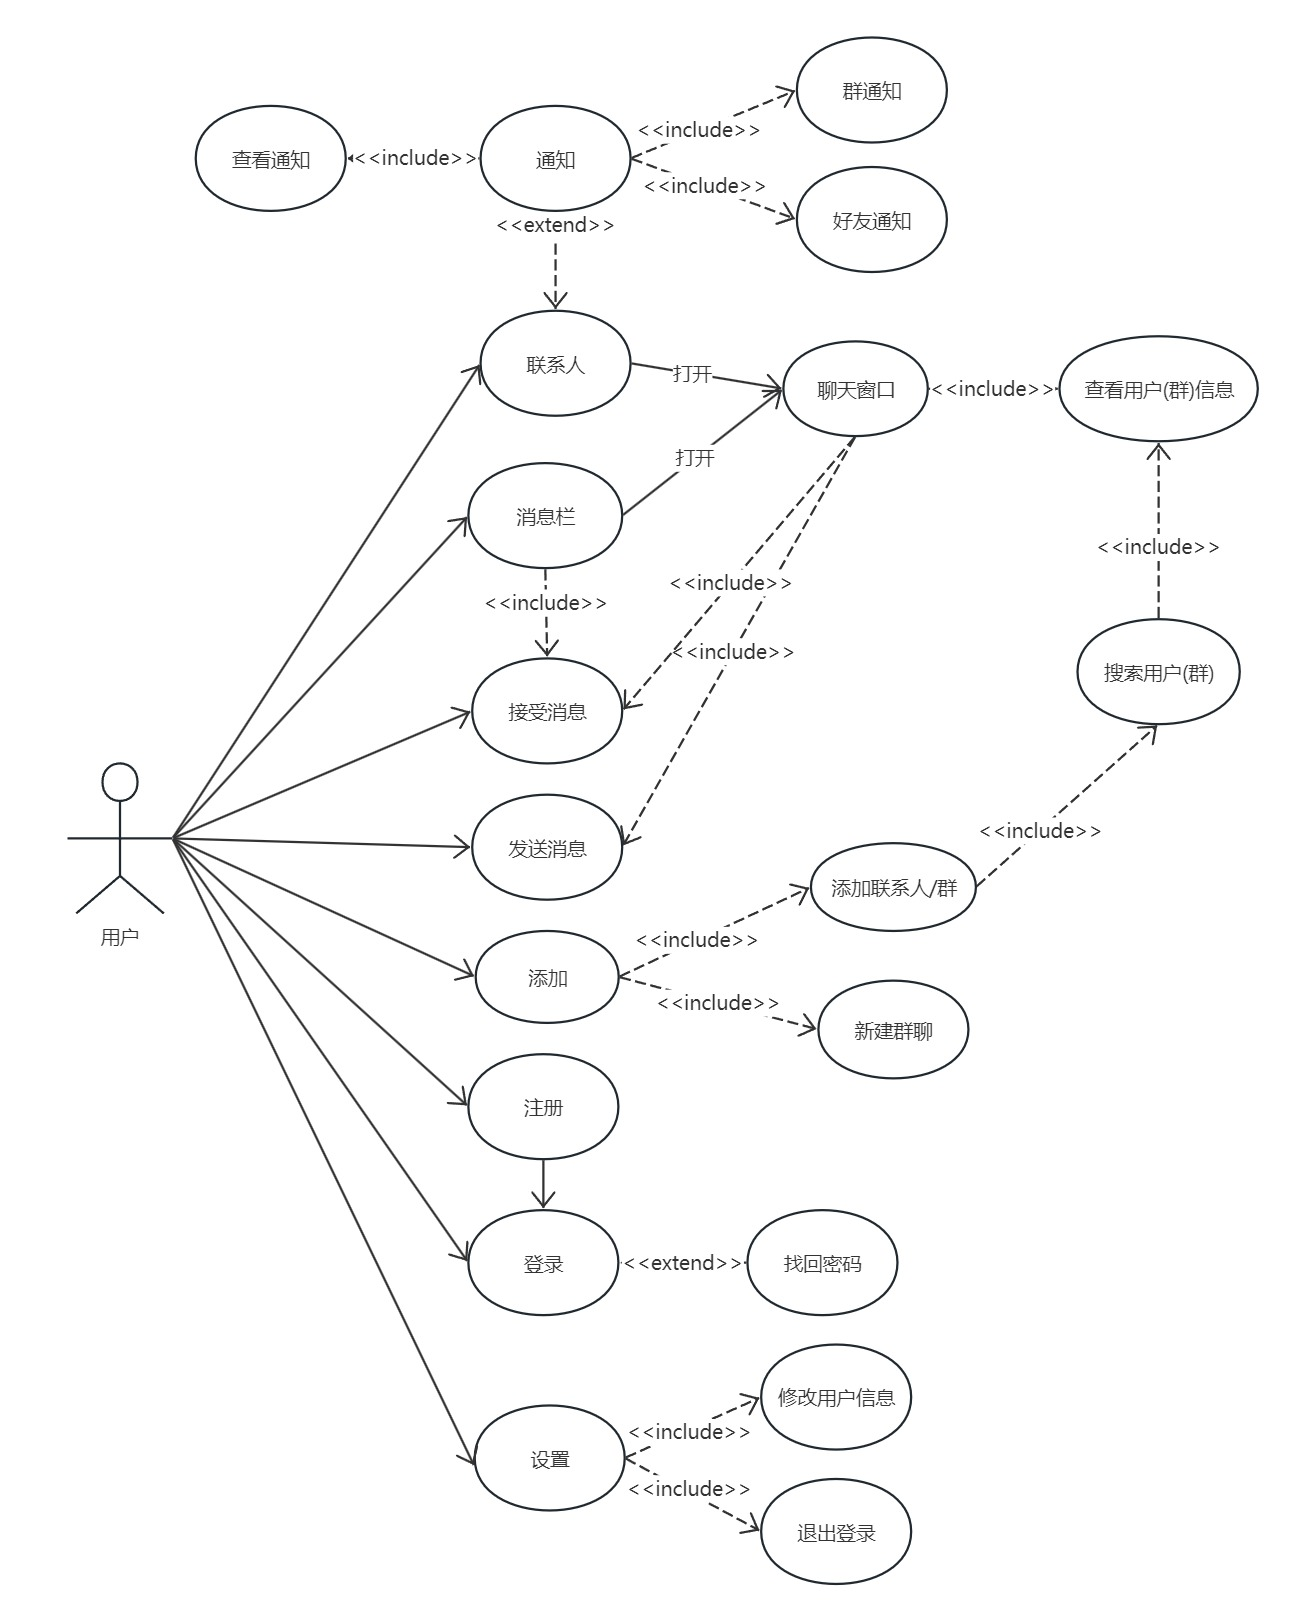
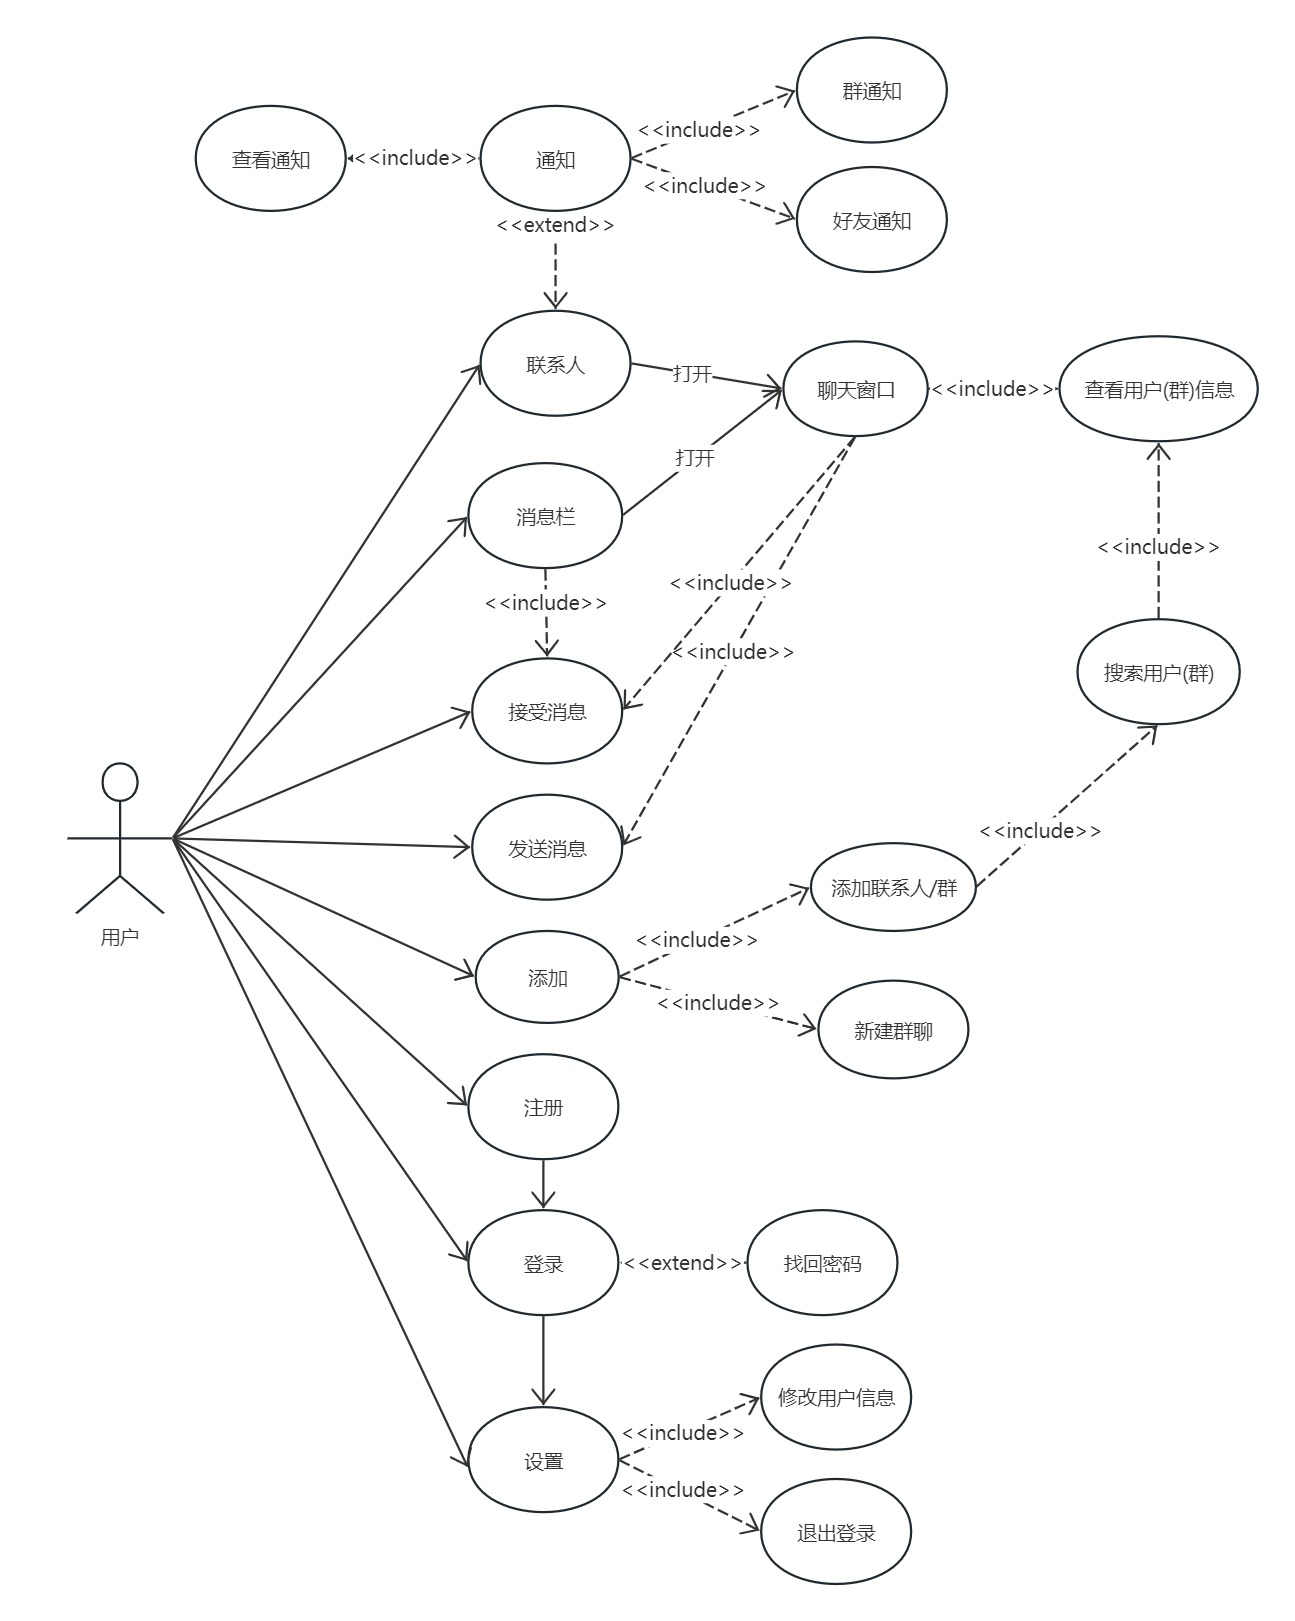
修改用例图，并补充设置的规约描述

diff --git a/项目文档.md b/项目文档.md
@@ -111,13 +111,22 @@
 - **扩展流程**：
   1. 如果账号密码格式错误，则提示用户，并返回基本流程2
   2. 如果账号不存在，则提示用户，并返回基本流程2
-#### 2.1.2 
-
-- **参与者**：
-- **触发条件**：
-- **前置条件**：
-- **后置条件**：
+#### 2.1.3 设置
+- **参与者**： 用户
+- **触发条件**： 用户在主界面点击“设置”按钮
+- **前置条件**： 用户已经成功登录并进入主界面
+- **后置条件**： 设置更改保存成功，系统应用新的设置并可能返回主界面或停留在设置页面。用户选择退出时，成功退出应用。
 - **基本流程**：
-  1. 
+  1. 系统展示设置菜单，包括选项如账户信息、退出应用等
+  2. 用户选择需更改的设置项
+  3. 用户修改设置（更改密码、修改用户名等）
+  4. 系统检验更改（新密码格式、用户名规范性等）
+  5. 用户确认更改
+  6. 系统保存更改并给出成功提示
+  7. 如果用户选择“退出应用”选项，系统进行确认操作
+  8. 用户确认退出，系统执行登出过程，并关闭应用或返回到登录界面
 - **扩展流程**：
-  1. 
+  1. 如果账号密码格式错误，则提示用户，并返回基本流程3
+  2. 如果用户选择退出而不保存更改，系统提示是否保存更改，根据用户选择保存或放弃更改，并返回基本流程3
+  3. 如果系统无法保存更改，则提示用户，并返回基本流程3
+  4. 如果用户在退出确认时选择取消，系统取消退出流程并返回主界面
